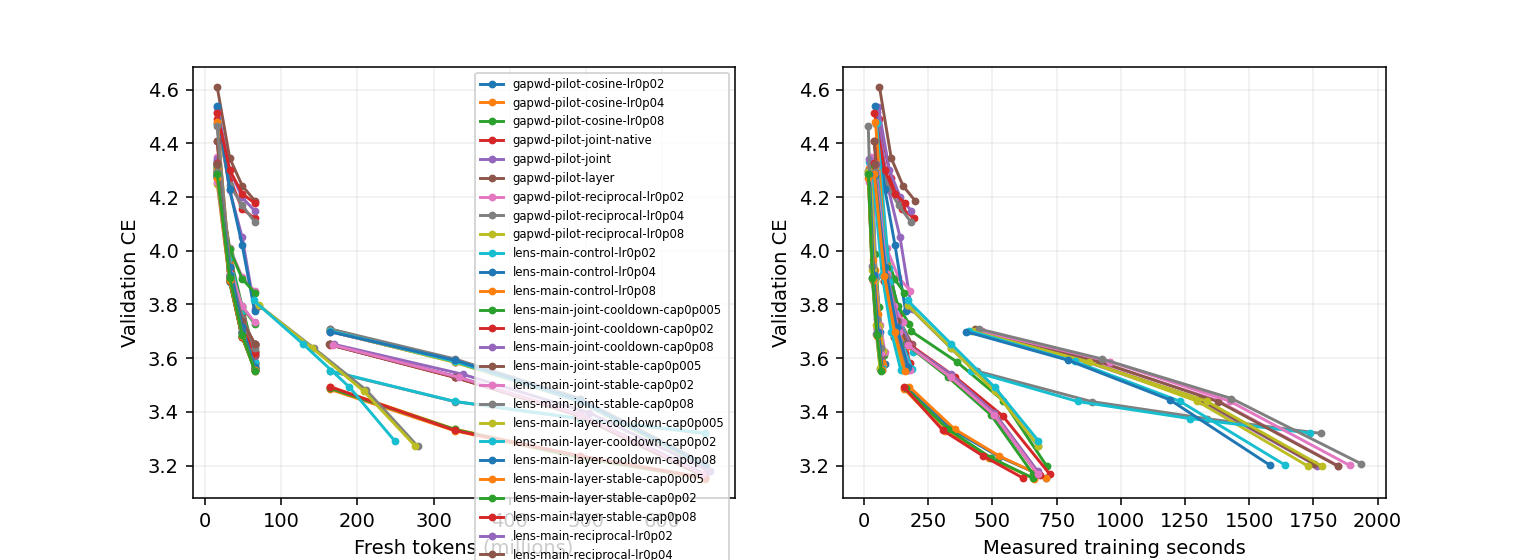
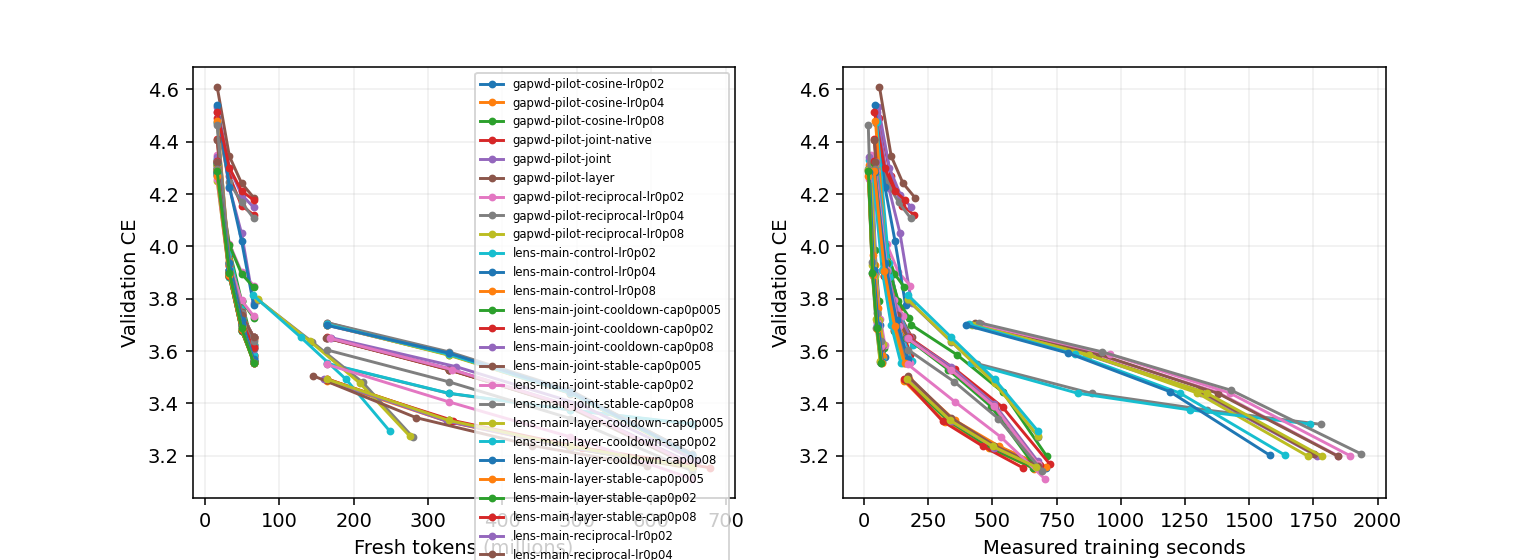
Update live Muon experiment results

diff --git a/research/unnormalized_muon/FOLLOWUP_RESULTS.md b/research/unnormalized_muon/FOLLOWUP_RESULTS.md
@@ -1,0 +1,31 @@
+# Reciprocal follow-up: long-horizon fairness and equal time
+
+The earlier campaign COMPLETED. Same-batch gap searches lost at655M tokens and equal time. The fresh-data gate failed7/12 versus8/12, so online-controller expansion remains stopped. A cheap fixed-WD reciprocal schedule improved three original paired seeds, motivating this follow-up; settings here use seed0 development losses only. The old long-horizon control preferred its lower tested LR, so extend its range fairly before claiming superiority.
+
+All runs: one verified B300, dense125,829,354-parameter depth8/512, ClimbMix/32K tokenizer,32768 tokens/update, fixed ordinary lambda=.1837498798375862, native Nesterov/NS/Frobenius, no row equilibration or NorMuon. Shape stays inside Q. Same auxiliary recipe. Three seeds are limited evidence.
+
+First complete the missing reciprocal equal-time endpoints on the ORIGINAL frozen settings/seeds10/11/12. Then extend/control BOTH peak-LR searches at20k updates, using the same factor-two edge rule and geometric refinements. Freeze before NEW seeds20/21/22 and NEW disjoint heldout block2. All timed schedules, including matrix reciprocal, use active-time fraction*reference horizon. Time-budget reruns finish the last update; overhead and overshoot are recorded.
+
+| Run | Updates | Schedule | Peak CLI LR | Seed | Val CE | Heldout CE | Heldout block | Active sec | Process sec | Overshoot sec |
+|---|---:|---|---:|---:|---:|---:|---:|---:|---:|---:|
+| um-follow-first-time-reciprocal-s10 | 20740 | fw_reciprocal | 0.02 | 10 | 3.154321 | 3.095921 | 1 | 679.004 | 733.36 | 0.01138 |
+| um-follow-first-time-reciprocal-s11 | 20007 | fw_reciprocal | 0.02 | 11 | 3.156209 | 3.099467 | 1 | 678.997 | 734.10 | 0.00371 |
+| um-follow-first-time-reciprocal-s12 | 18127 | fw_reciprocal | 0.02 | 12 | 3.161711 | 3.105612 | 1 | 679.006 | 750.97 | 0.01322 |
+| um-follow-first-tune-control-lr0p01 | 20000 | cooldown | 0.01 | 0 | 3.112087 | — | — | 706.571 | 777.47 | 0.00000 |
+| um-follow-first-tune-control-lr0p02 | 20000 | cooldown | 0.02 | 0 | 3.142251 | — | — | 696.905 | 767.69 | 0.00000 |
+| um-follow-first-tune-reciprocal-lr0p01 | 20000 | fw_reciprocal | 0.01 | 0 | 3.156622 | — | — | 673.476 | 744.07 | 0.00000 |
+
+## Paired held-out endpoints
+
+| Comparison | Seed | Reciprocal minus control CE | Control updates | Reciprocal updates |
+|---|---:|---:|---:|---:|
+| original-frozen equal time | 10 | -0.024781 | 20225 | 20740 |
+| original-frozen equal time | 11 | -0.013923 | 19762 | 20007 |
+| original-frozen equal time | 12 | -0.011055 | 19890 | 18127 |
+
+original-frozen equal time: paired deltas mean -0.016586, sample SD 0.007240; n=3.
+
+
+Scale-up gate: only if fresh20k seeds all improve and mean delta<-.003 CE, tune BOTH families again at40k updates (1.31B tokens), then freeze for NEW seeds30/31/32 and NEW heldout block3, with independent equal-time reruns. Otherwise stop scale-up. Larger horizons and extra tuning are reported as follow-up research, not retroactive confirmation of earlier heldout results.
+
+Job cost includes compilation, validation, warmup, snapshots and checkpoint I/O. Training-active time excludes separately measured one-time/evaluation overhead. No attempt is made to spend the full50GPUh allowance.

diff --git a/research/unnormalized_muon/RESULTS.md b/research/unnormalized_muon/RESULTS.md
@@ -42,6 +42,10 @@ One B300 per job. CE is token cross-entropy (nats); lower is better. Rows with d
 | um-clean-long-1-1-cooldown-lr0p32 | Clean Unnormalized cooldown | 20000 | 0 | 0.32 | 3.168984 | 0.960728 | — | 754.69 |
 | um-clean-long-1-2-constant-lr0p32 | Clean Unnormalized constant | 20000 | 0 | 0.32 | 3.209921 | 0.973169 | — | 765.35 |
 | um-clean-long-2-fw-pilot | Clean FW backtracking momentum Rfactor2 smoothness eager | 2000 | 0 | 0.02 | 4.185817 | 1.268782 | — | 409.98 |
+| um-follow-first-time-reciprocal-s10 | Clean Muon shifted reciprocal time679.0s fixed_lambda=0.18375 WD:standard(0) | 20740 | 10 | 0.02 | 3.154321 | 0.956268 | 3.095921 | 733.36 |
+| um-follow-first-time-reciprocal-s11 | Clean Muon shifted reciprocal time679.0s fixed_lambda=0.18375 WD:standard(0) | 20007 | 11 | 0.02 | 3.156209 | 0.956928 | 3.099467 | 734.10 |
+| um-follow-first-time-reciprocal-s12 | Clean Muon shifted reciprocal time679.0s fixed_lambda=0.18375 WD:standard(0) | 18127 | 12 | 0.02 | 3.161711 | 0.958558 | 3.105612 | 750.97 |
+| um-follow-first-tune-reciprocal-lr0p01 | Clean Muon shifted reciprocal fixed_lambda=0.18375 WD:standard(0) | 20000 | 0 | 0.01 | 3.156622 | 0.957022 | — | 744.07 |
 | um-fresh-diagnosis-001 | Clean Native cooldown fixed_lambda=0.18375 WD:standard(0) | 2000 | 0 | 0.04 | 3.557051 | 1.078327 | — | 340.47 |
 | um-fresh-wd-mixing | Clean Native cooldown fixed_lambda=0.18375 WD:standard(0) | 2000 | 0 | 0.04 | 3.555051 | 1.077723 | — | 149.73 |
 | um-fresh-wd-static-product | Clean Native cooldown fixed_lambda=0.153864 WD:standard(0) | 2000 | 0 | 0.04 | 3.553682 | 1.077298 | — | 123.04 |
@@ -196,7 +200,7 @@ One B300 per job. CE is token cross-entropy (nats); lower is better. Rows with d
 
 Review of um-fw-diagnostic-001: Compiled training f0 compared against functional candidate losses; vanishing-step mismatch2-4e-5 exceeded tolerance, leading to curvature1e186 and45 skipped steps. Replaced by paired functional reference and candidates; retain all645 measured forwards and GPUcost.
 
-Conservative charged/reserved total: 21.2226 / 30 B300 GPU-hours. Includes prior smoke/failed attempts and current maximum-duration reservations. Six-slot central queue; one B300 per run.
+Conservative charged/reserved total: 24.1150 / 30 B300 GPU-hours. Includes prior smoke/failed attempts and current maximum-duration reservations. Six-slot central queue; one B300 per run.
 
 CLEAN geometry disables row equilibration and NorMuon. Original clean runs use zero matrix decay; new WD runs explicitly label standard or cautious decay and their CLI coefficient. Same five Polar Express steps and Frobenius correction; scale by the per-matrix nonnegative FP32 inner product of the native Nesterov input with the NS/Frobenius direction. Shape scaling occurs once outside the scalar. Legacy rows retain production extras and must be compared separately. Constant schedule changes only matrix LR; auxiliary schedules and momentum remain matched.
 

diff --git a/research/unnormalized_muon/DETAILED_EVAL.md b/research/unnormalized_muon/DETAILED_EVAL.md
@@ -12,6 +12,11 @@ All results use the B300 fork model/data/tokenizer and a fixed tuning-validation
 | normalized WD none 0 | 0.08 | 20000 | 3.112453 | 680.91 | 755.24 |
 | unnormalized cooldown WD none 0 | 0.32 | 20000 | 3.168984 | 681.31 | 754.69 |
 | unnormalized constant WD none 0 | 0.32 | 20000 | 3.209921 | 691.44 | 765.35 |
+| normalized WD standard 0 | 0.02 | 20740 | 3.154321 | 676.22 | 733.36 |
+| normalized WD standard 0 | 0.02 | 20007 | 3.156209 | 676.41 | 734.10 |
+| normalized WD standard 0 | 0.01 | 20000 | 3.112087 | 703.74 | 777.47 |
+| normalized WD standard 0 | 0.02 | 20000 | 3.142251 | 694.30 | 767.69 |
+| normalized WD standard 0 | 0.01 | 20000 | 3.156622 | 670.54 | 744.07 |
 | normalized WD standard 0 | 0.0282843 | 20000 | 3.167631 | 658.92 | 741.10 |
 | normalized WD standard 0 | 0.0282843 | 20000 | 3.164999 | 684.42 | 745.36 |
 | normalized WD standard 0 | 0.0282843 | 20000 | 3.169816 | 676.02 | 733.38 |
@@ -216,6 +221,12 @@ The shifted reciprocal control uses eta_i(t)=eta_i0/(1+lambda eta_i0*t/2) after4
 
 | Run | Mode | Fixed lambda | Updates | Val CE | Extra batch forwards | Process sec |
 |---|---|---:|---:|---:|---:|---:|
+| um-follow-first-time-reciprocal-s10 | fw_reciprocal native | 0.1837499 | 20740 | 3.154321 | 0 | 733.36 |
+| um-follow-first-time-reciprocal-s11 | fw_reciprocal native | 0.1837499 | 20007 | 3.156209 | 0 | 734.10 |
+| um-follow-first-time-reciprocal-s12 | fw_reciprocal native | 0.1837499 | 18127 | 3.161711 | 0 | 750.97 |
+| um-follow-first-tune-control-lr0p01 | cooldown native | 0.1837499 | 20000 | 3.112087 | 0 | 777.47 |
+| um-follow-first-tune-control-lr0p02 | cooldown native | 0.1837499 | 20000 | 3.142251 | 0 | 767.69 |
+| um-follow-first-tune-reciprocal-lr0p01 | fw_reciprocal native | 0.1837499 | 20000 | 3.156622 | 0 | 744.07 |
 | um-fresh-diagnosis-001 | cooldown native | 0.1837499 | 2000 | 3.557051 | 0 | 340.47 |
 | um-fresh-wd-mixing | cooldown native | 0.1837499 | 2000 | 3.555051 | 0 | 149.73 |
 | um-fresh-wd-static-product | cooldown native | 0.1538642 | 2000 | 3.553682 | 0 | 123.04 |
